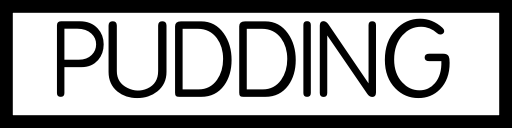
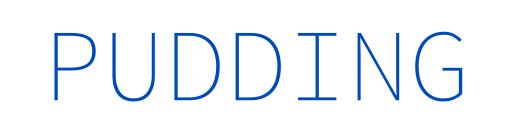
Update examples

diff --git a/examples/index.html b/examples/index.html
@@ -226,7 +226,7 @@ footer .nav-item {
                         </td>
                         <td>
                             <code>
-                                $ fur banner "apeman-banner.png" --text="apeman" --color="#7B2F00" --font="cd" --style="default" --format="png" 
+                                $ fur banner "apeman-banner.png" --text="apeman" --color="#3C0B00" --font="p" --style="default" --format="png" 
                             </code>
                         </td>
 
@@ -238,7 +238,7 @@ footer .nav-item {
                         </td>
                         <td>
                             <code>
-                                $ fur banner "pudding-banner.png" --text="PUDDING" --color="zz" --font="be" --style="bordered" --format="png" 
+                                $ fur banner "pudding-banner.png" --text="PUDDING" --color="#004BBB" --font="cn" --style="plain" --format="png" 
                             </code>
                         </td>
 
@@ -302,7 +302,7 @@ footer .nav-item {
                         </td>
                         <td>
                             <code>
-                            $ fur favicon "ap-favicon.png" --text="ap" --color="#7B2F00" --font="cd" --style="circle" --format="png" 
+                            $ fur favicon "ap-favicon.png" --text="ap" --color="#3C0B00" --font="p" --style="circle" --format="png" 
                             </code>
                         </td>
 
@@ -314,7 +314,7 @@ footer .nav-item {
                         </td>
                         <td>
                             <code>
-                            $ fur favicon "p-favicon.png" --text="P" --color="zz" --font="be" --style="bordered" --format="png" 
+                            $ fur favicon "p-favicon.png" --text="P" --color="#004BBB" --font="cn" --style="default" --format="png" 
                             </code>
                         </td>
 

diff --git a/index.js b/index.js
@@ -11,11 +11,11 @@ var FUR_FONT = 'bt',
     COZ_COLOR = 'o',
     COZ_FONT = 'aa',
 
-    PUDDING_COLOR = 'zz',
-    PUDDING_FONT = 'cr',
+    PUDDING_COLOR = '#004BBB',
+    PUDDING_FONT = 'cn',
 
-    APEMAN_COLOR = '#7B2F00',
-    APEMAN_FONT = 'cd',
+    APEMAN_COLOR = '#3C0B00',
+    APEMAN_FONT = 'p',
 
     PON_COLOR = 'g',
     PON_FONT = "ar";
@@ -70,13 +70,13 @@ exports['04-pudding'] = {
         text: "PUDDING",
         color: PUDDING_COLOR,
         font: PUDDING_FONT,
-        style: "bordered"
+        style: "plain"
     },
     $favicon: {
         text: "P",
         color: PUDDING_COLOR,
         font: PUDDING_FONT,
-        style: "bordered"
+        style: "default"
     }
 };
 

diff --git a/ci/update.js b/ci/update.js
@@ -1,0 +1,18 @@
+#!/usr/bin/env node
+
+/**
+ * Update project.
+ */
+
+"use strict";
+
+process.chdir(__dirname + '/..');
+
+var apeTasking = require('ape-tasking'),
+    apeUpdating = require('ape-updating');
+
+apeTasking.runTasks('update', [
+    function updateDependencies(callback) {
+        apeUpdating.updateDependencies({}, callback);
+    }
+], true);

diff --git a/ci/build.js b/ci/build.js
@@ -1,7 +1,7 @@
 #!/usr/bin/env node
 
 /**
- * Build this package.j
+ * Build this package.
  */
 
 "use strict";
